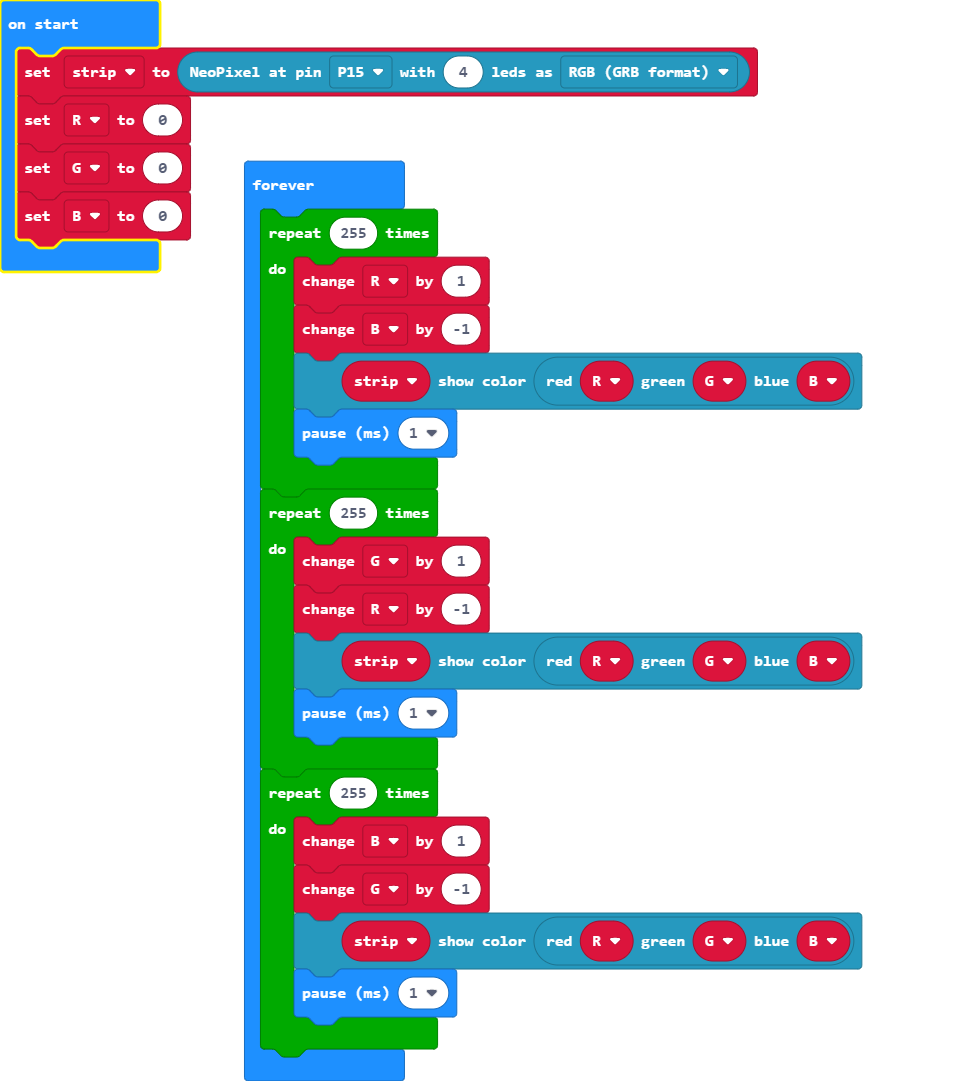
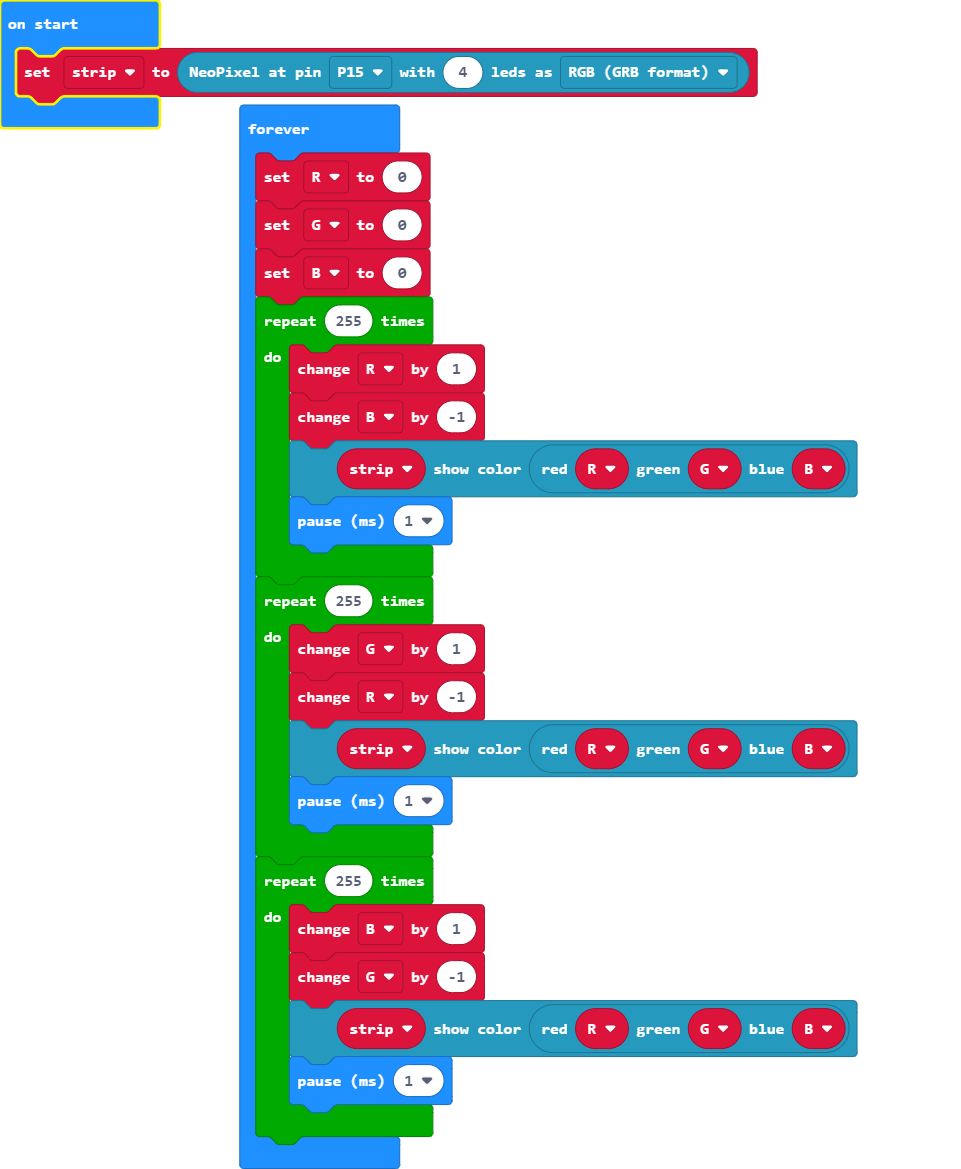
Update main.blocks, main.ts

Changed region(s): [[0.0, 0.0, 0.9053, 1.0]]

diff --git a/main.ts b/main.ts
@@ -1,8 +1,11 @@
-let strip = neopixel.create(DigitalPin.P15, 4, NeoPixelMode.RGB)
-let R = 0
-let G = 0
 let B = 0
+let G = 0
+let R = 0
+let strip = neopixel.create(DigitalPin.P15, 4, NeoPixelMode.RGB)
 basic.forever(function () {
+    R = 0
+    G = 0
+    B = 0
     for (let index = 0; index < 255; index++) {
         R += 1
         B += -1
